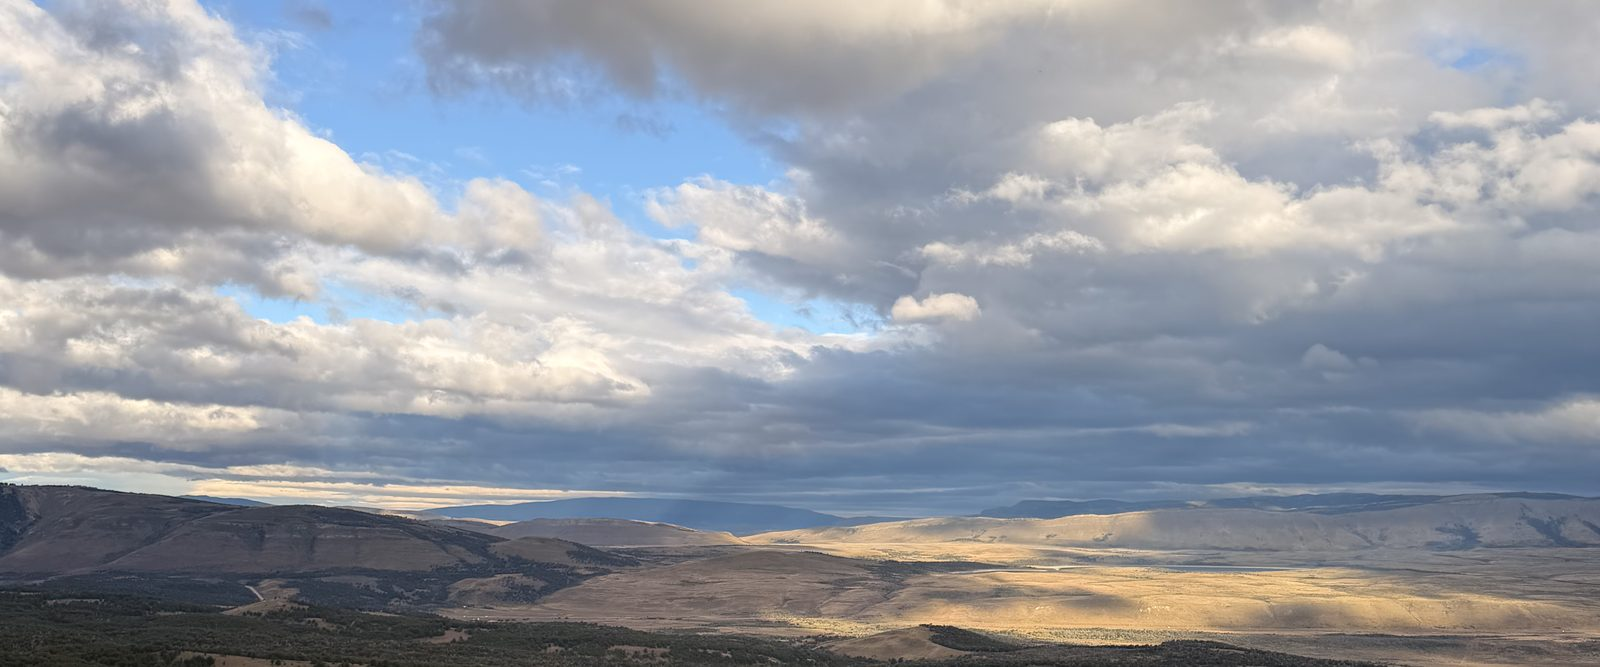
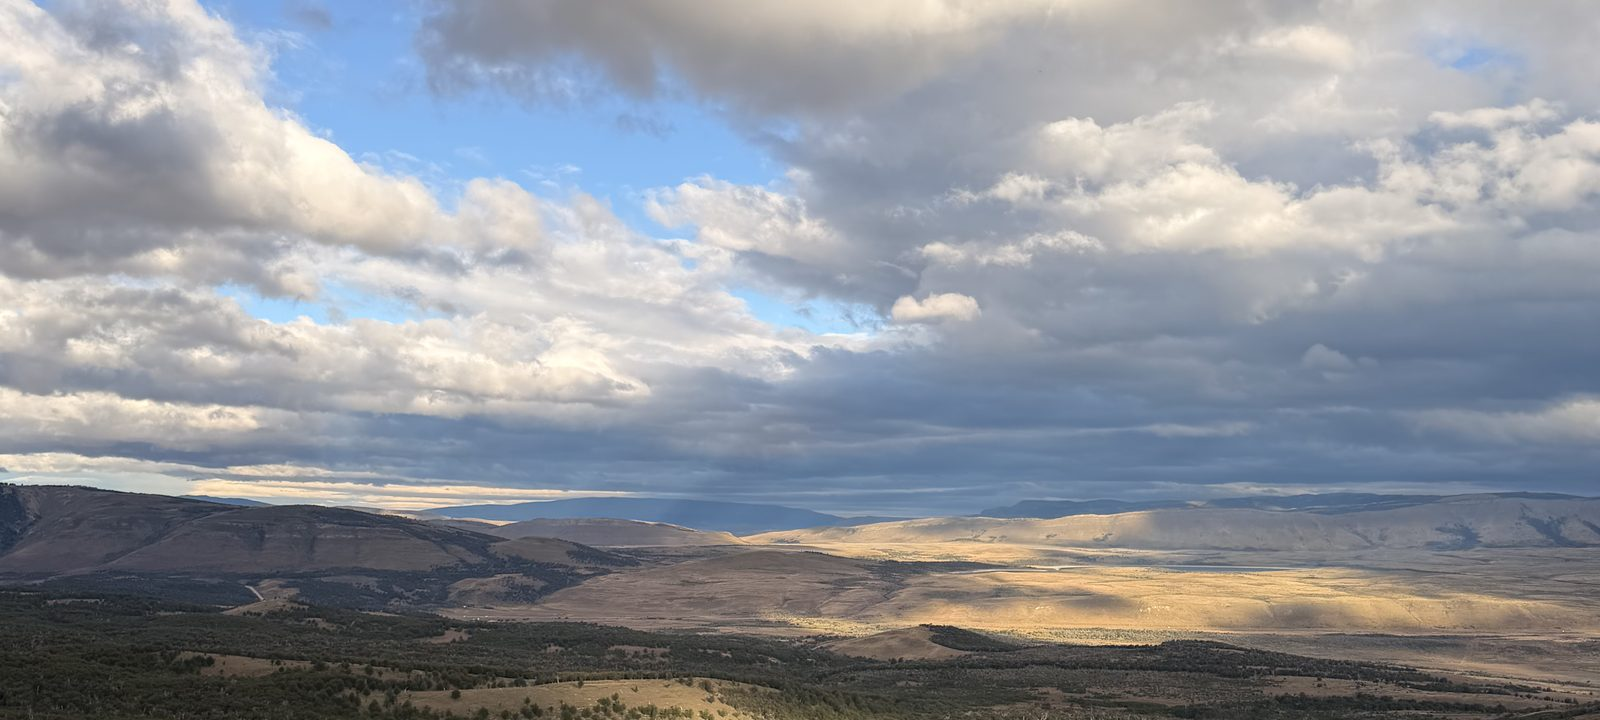
Preguntas: la banda sube otro 10% (más valle)
Claude-Session: https://claude.ai/code/session_018vndXe2rYgveigztPL74g4

diff --git a/index.html b/index.html
@@ -438,7 +438,7 @@ section[aria-labelledby="para-quien"]{padding-top:0}
         <p class="eyebrow eyebrow--ico"><img class="sec-ico" src="/img/ico/preguntas.png" alt="" width="44" height="44" decoding="async"><span>Antes de empezar</span></p>
         <h2 id="preguntas-t">Lo que suele preguntarse.</h2>
       </div>
-      <figure class="photo photo--band"><img style="object-position:50% 90%" src="img/valle-luz.jpg" width="1600" height="667" loading="lazy" alt="Un valle visto desde lo alto, con luz entre las nubes"></figure>
+      <figure class="photo photo--band"><img style="object-position:50% 88.4%" src="img/valle-luz.jpg" width="1600" height="720" loading="lazy" alt="Un valle visto desde lo alto, con luz entre las nubes"></figure>
       <div class="plans plans--faq">
 <div class="plan">
 <h3>Antes de decidir</h3>
